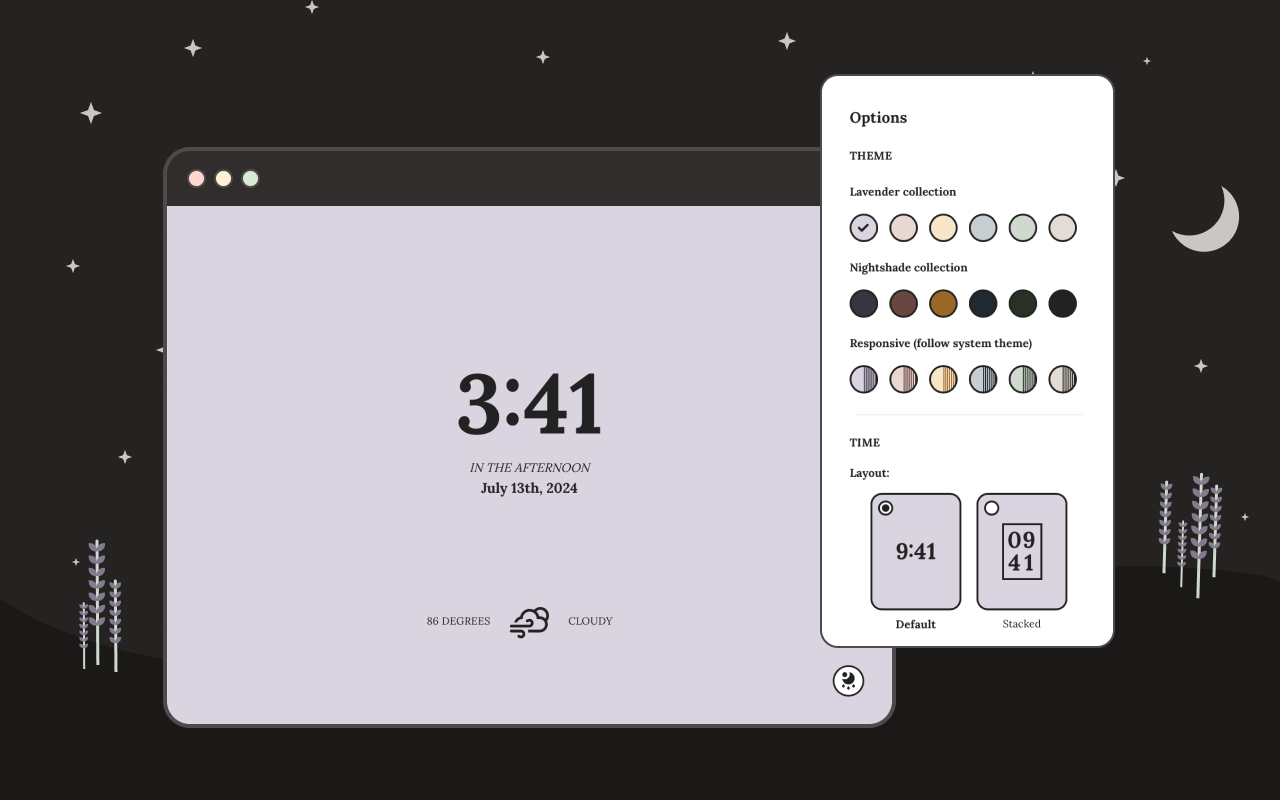
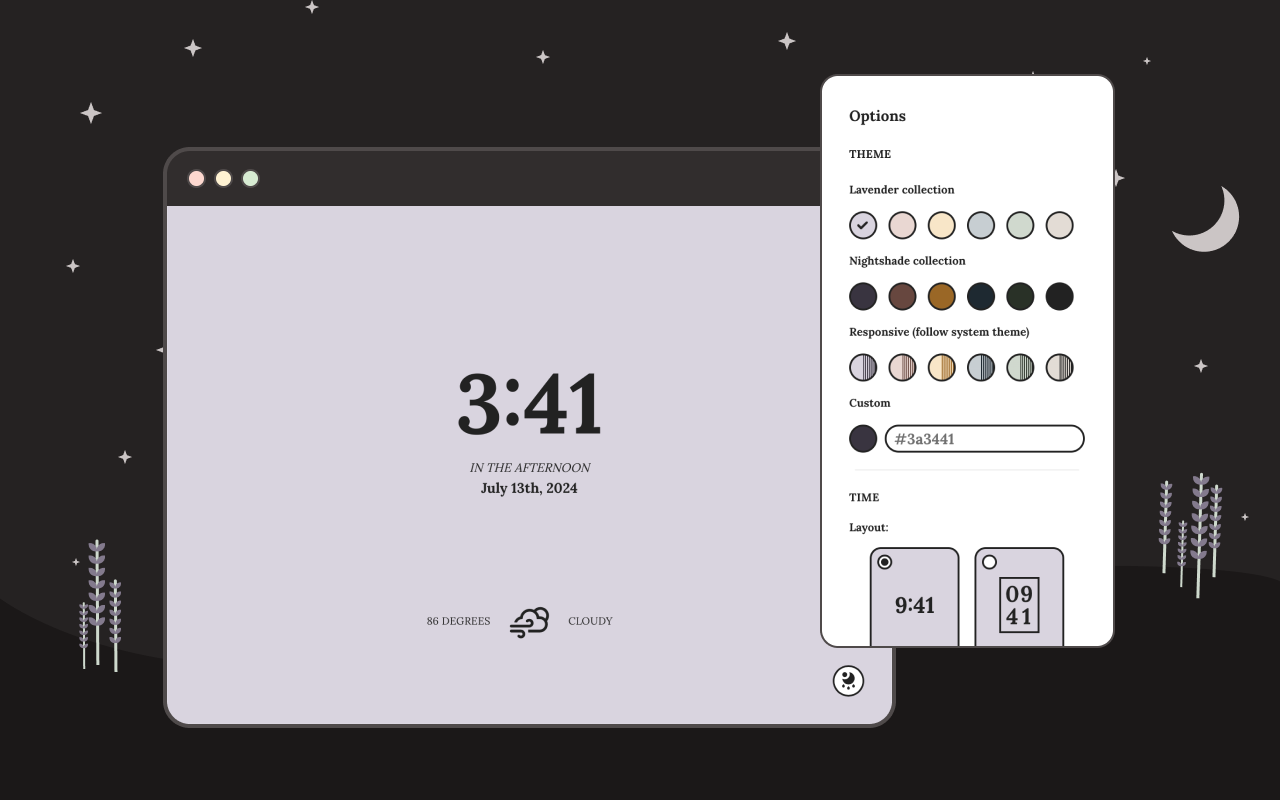
fix: custom color feature styles and logic (#37)
* fix: update global placeholder color

* feat: use ui bg color for options inputs

* feat: update options screenshot

* refactor: improve readability in custom color logic

* fix: prevent error when custom color has not been set

Occurred when loading from a previously stored settings object without
custom color value. Theme select had missing bg color visually and set
an invalid bg color on click.

* refactor: locate custom color logic with theme logic

improves readability and allows chrome storage to be loaded at time of
custom color setup

* docs: add custom feature to readme & bump version

Changed region(s): [[0.6562, 0.1875, 0.8438, 0.8125], [0.6562, 0.125, 0.7188, 0.1562]]

diff --git a/src/store/options.ts b/src/store/options.ts
@@ -33,10 +33,6 @@ export const useOptionsStore = defineStore('options', {
 					(options) => {
 						if (options) {
 							const localOptions = JSON.parse(options)
-							document.documentElement.style.setProperty(
-								'--color-custom',
-								localOptions.theme.customColor,
-							)
 							this.$patch(localOptions)
 						}
 					},
@@ -50,6 +46,7 @@ export const useOptionsStore = defineStore('options', {
 				})
 				.then(() => {
 					this.setTheme(this.theme.color)
+					this.setCustomColor(this.theme.customColor)
 					this.$subscribe((_, state) => {
 						localStorage.setItem('options', JSON.stringify({ ...state }))
 					})
@@ -104,12 +101,14 @@ export const useOptionsStore = defineStore('options', {
 			this.$patch({ theme: { color: theme } })
 			document.documentElement.className = theme
 		},
-		setCustomColor(colorHex: string) {
+		setCustomColor(colorHex: string, enable = false) {
 			const isDark = isColorDark(colorHex)
 			const theme = isDark ? 'custom-dark' : 'custom'
-			this.$patch({ theme: { customColor: colorHex, color: theme } })
 			document.documentElement.style.setProperty('--color-custom', colorHex)
-			document.documentElement.className = theme
+			if (enable) {
+				this.$patch({ theme: { color: theme, customColor: colorHex } })
+				document.documentElement.className = theme
+			}
 		},
 		previewTheme(theme: string) {
 			document.documentElement.className = theme

diff --git a/src/assets/styles/global.css b/src/assets/styles/global.css
@@ -18,6 +18,7 @@
 
 	/* ui colors*/
 	--color-gray: #222222;
+	--color-gray-light: #6f6f6f;
 
 	/* classic theme colors */
 	--color-lavender: #dad4e0;
@@ -42,7 +43,7 @@
 	--ui-bg: white;
 
 	/* custom color */
-	--color-custom: #3a3441;
+	--color-custom: var(--color-lavender-dark);
 
 	--ui-focus-box: 0px 0px 0px 2px var(--ui-bg), 0px 0px 0px 4px var(--ui-fg);
 }
@@ -214,4 +215,19 @@ body {
 }
 .centered {
 	justify-content: center;
+}
+
+input:-ms-input-placeholder,
+textarea:-ms-input-placeholder {
+	color: var(--color-gray-light);
+}
+
+input::-ms-input-placeholder,
+textarea::-ms-input-placeholder {
+	color: var(--color-gray-light);
+}
+
+input::placeholder,
+textarea::placeholder {
+	color: var(--color-gray-light);
 }

diff --git a/src/components/options.vue b/src/components/options.vue
@@ -42,7 +42,7 @@ function handleCustomColorChange(e: Event) {
 		return
 	}
 
-	optionsStore.setCustomColor(color)
+	optionsStore.setCustomColor(color, true)
 }
 
 function handleFetch() {
@@ -121,7 +121,7 @@ function handleClearData() {
 						<ThemeSelect
 							:theme="customColorScheme"
 							:dark="isCustomColorDark"
-							:colors="['custom', 'custom-dark']"
+							:colors="['custom']"
 						/>
 						<input
 							type="text"
@@ -399,6 +399,7 @@ input {
 	border: var(--border);
 	border-radius: var(--rounded-full);
 	padding: 0 var(--space-xsmall);
+	background-color: var(--ui-bg);
 }
 
 input:focus {

diff --git a/src/assets/styles/normalize.css b/src/assets/styles/normalize.css
@@ -495,21 +495,6 @@ textarea {
 	resize: vertical;
 }
 
-input:-ms-input-placeholder,
-textarea:-ms-input-placeholder {
-	color: #a0aec0;
-}
-
-input::-ms-input-placeholder,
-textarea::-ms-input-placeholder {
-	color: #a0aec0;
-}
-
-input::placeholder,
-textarea::placeholder {
-	color: #a0aec0;
-}
-
 button,
 [role='button'] {
 	cursor: pointer;

diff --git a/readme.md b/readme.md
@@ -7,7 +7,7 @@
 lavender is a soft, minimal new tab for your browser featuring:
 
 - live time & weather updates
-- 12 background colors in calming pastel and rich dark tones
+- 12 background colors in calming pastel and rich dark tones (or bring your own custom color!)
 - dynamic light / dark mode for adaptive viewing
 - alternative UI layouts
 - location-based weather fetching
